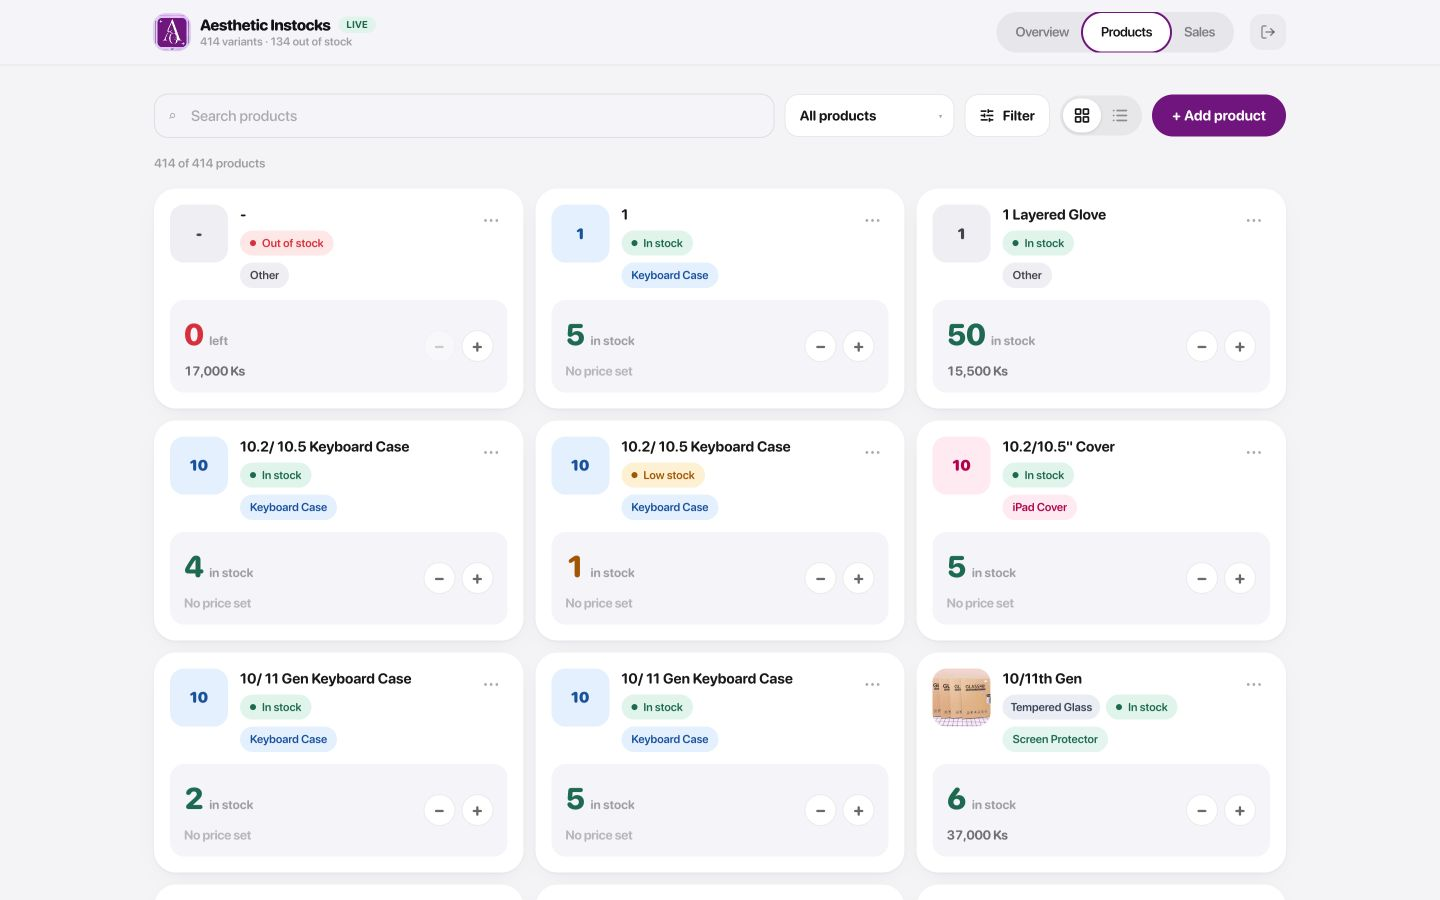
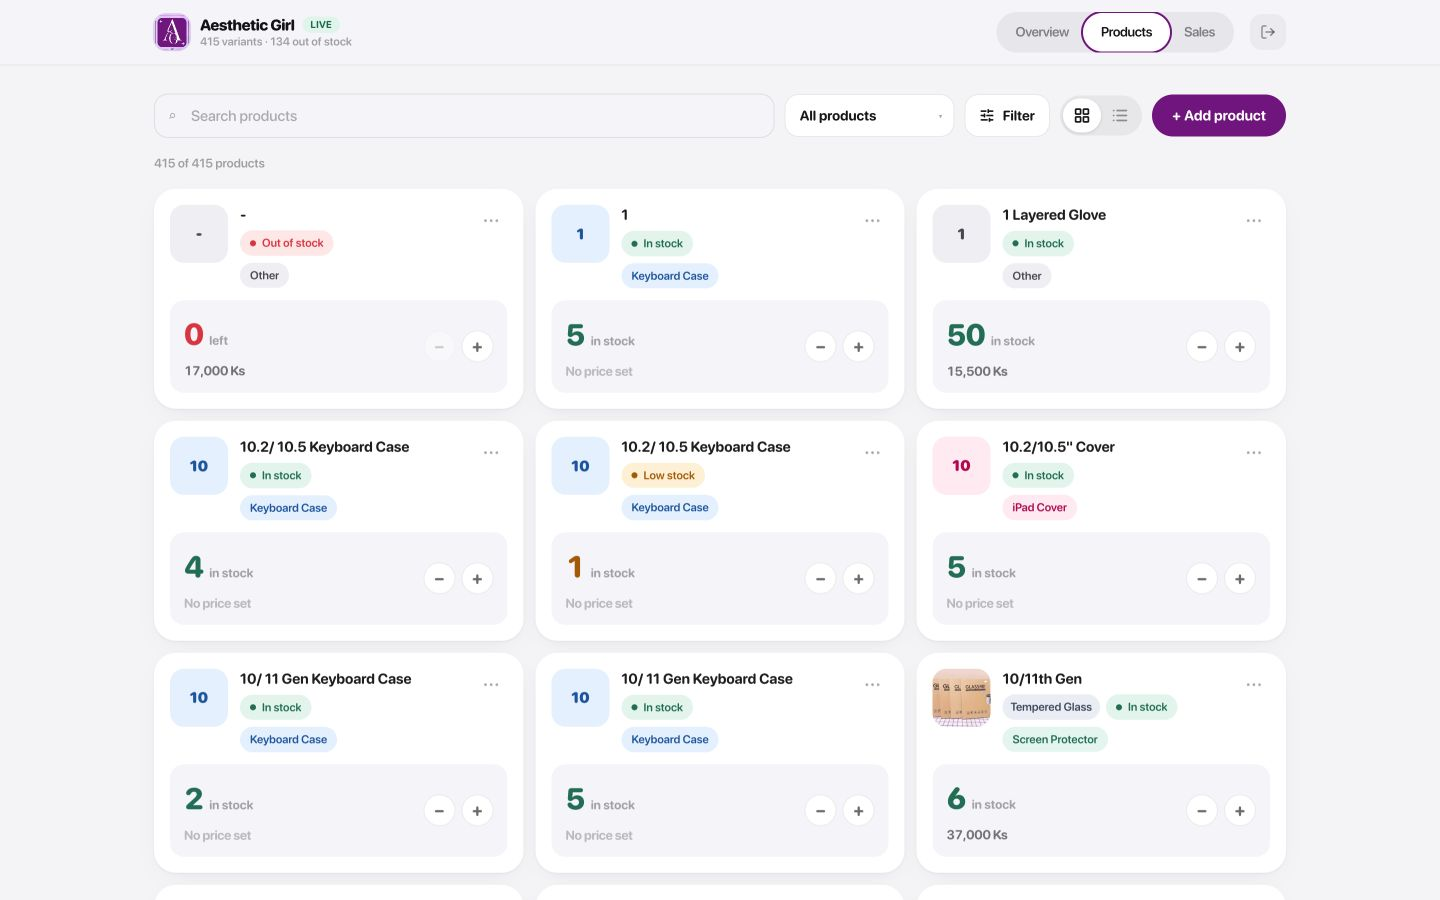
Simplify login and add password visibility

diff --git a/src/components/AuthGate.tsx b/src/components/AuthGate.tsx
@@ -1,6 +1,6 @@
 import * as React from 'react'
 import type { Session } from '@supabase/supabase-js'
-import { LoaderCircle, LockKeyhole, Sparkles } from 'lucide-react'
+import { Eye, EyeOff, LoaderCircle, Sparkles } from 'lucide-react'
 import { Button } from '@/components/ui/button'
 import { Input } from '@/components/ui/input'
 import { supabase, supabaseConfigured } from '@/lib/supabase'
@@ -13,6 +13,7 @@ export default function AuthGate({ children }: { children: React.ReactNode }) {
   const [mode, setMode] = React.useState<Mode>('signin')
   const [email, setEmail] = React.useState('')
   const [password, setPassword] = React.useState('')
+  const [showPassword, setShowPassword] = React.useState(false)
   const [busy, setBusy] = React.useState(false)
   const [message, setMessage] = React.useState<string | null>(null)
   const [error, setError] = React.useState<string | null>(null)
@@ -88,19 +89,9 @@ export default function AuthGate({ children }: { children: React.ReactNode }) {
             className="h-11 w-11 shrink-0 rounded-[15px] object-cover shadow-sm ring-1 ring-[#89288F]/15"
           />
           <div>
-            <h1 className="text-[20px] font-extrabold tracking-tight">Aesthetic Instocks</h1>
+            <h1 className="text-[20px] font-extrabold tracking-tight">Aesthetic Girl</h1>
             <p className="text-[12px] font-semibold text-black/40">Private inventory workspace</p>
           </div>
-        </div>
-
-        <div className="mb-6 rounded-[18px] bg-[#F7EFF8] p-4">
-          <div className="flex items-center gap-2 text-[13px] font-bold text-[#76227B]">
-            <LockKeyhole className="h-4 w-4" />
-            Your shop data is protected
-          </div>
-          <p className="mt-1.5 text-[12px] leading-relaxed text-black/50">
-            Sign in to sync inventory, orders, sales and expenses across devices.
-          </p>
         </div>
 
         <form className="space-y-4" onSubmit={submit}>
@@ -118,16 +109,28 @@ export default function AuthGate({ children }: { children: React.ReactNode }) {
           </label>
           <label className="block">
             <span className="mb-1.5 block text-[12px] font-bold text-black/55">Password</span>
-            <Input
-              autoComplete={mode === 'signin' ? 'current-password' : 'new-password'}
-              className="h-11 rounded-[13px] bg-white px-3.5"
-              minLength={8}
-              onChange={(event) => setPassword(event.target.value)}
-              placeholder="At least 8 characters"
-              required
-              type="password"
-              value={password}
-            />
+            <div className="relative">
+              <Input
+                autoComplete={mode === 'signin' ? 'current-password' : 'new-password'}
+                className="h-11 rounded-[13px] bg-white pl-3.5 pr-11"
+                minLength={8}
+                onChange={(event) => setPassword(event.target.value)}
+                placeholder="At least 8 characters"
+                required
+                type={showPassword ? 'text' : 'password'}
+                value={password}
+              />
+              <button
+                type="button"
+                aria-label={showPassword ? 'Hide password' : 'Show password'}
+                aria-pressed={showPassword}
+                className="absolute inset-y-0 right-0 grid w-11 place-items-center rounded-r-[13px] text-black/40 transition-colors hover:text-[#89288F] focus-visible:outline-none focus-visible:ring-2 focus-visible:ring-inset focus-visible:ring-[#89288F]"
+                onClick={() => setShowPassword((visible) => !visible)}
+                title={showPassword ? 'Hide password' : 'Show password'}
+              >
+                {showPassword ? <EyeOff className="h-[18px] w-[18px]" /> : <Eye className="h-[18px] w-[18px]" />}
+              </button>
+            </div>
           </label>
 
           {error && <p className="rounded-xl bg-red-50 px-3 py-2 text-[12px] font-semibold text-red-600">{error}</p>}

diff --git a/src/lib/api.ts b/src/lib/api.ts
@@ -34,12 +34,12 @@ async function currentAccess() {
     .single()
   if (error) {
     if ('code' in error && error.code === 'PGRST116') {
-      throw new Error('This account has not been assigned to the Aesthetic Instocks workspace')
+      throw new Error('This account has not been assigned to the Aesthetic Girl workspace')
     }
     fail(error)
   }
 
-  if (!data) throw new Error('This account has not been assigned to the Aesthetic Instocks workspace')
+  if (!data) throw new Error('This account has not been assigned to the Aesthetic Girl workspace')
   const role = data.role
   if (role !== 'super_admin' && role !== 'staff' && role !== 'guest') {
     throw new Error('This account has an invalid workspace role')

diff --git a/src/App.tsx b/src/App.tsx
@@ -213,7 +213,7 @@ export default function App() {
             />
             <div className="min-w-0 leading-tight">
               <div className="flex items-center gap-2">
-                <span className="truncate text-[15.5px] font-extrabold tracking-tight">Aesthetic Instocks</span>
+                <span className="truncate text-[15.5px] font-extrabold tracking-tight">Aesthetic Girl</span>
                 <span
                   className="rounded-full px-2 py-[2px] text-[10px] font-bold uppercase tracking-wide"
                   style={{

diff --git a/index.html b/index.html
@@ -4,7 +4,7 @@
     <meta charset="UTF-8" />
     <link rel="icon" type="image/jpeg" href="/aesthetic-girl-mark.jpg" />
     <meta name="viewport" content="width=device-width, initial-scale=1.0" />
-    <title>Aesthetic Instocks</title>
+    <title>Aesthetic Girl</title>
   </head>
   <body>
     <div id="root"></div>

diff --git a/README.md b/README.md
@@ -1,4 +1,4 @@
-# Aesthetic Instocks
+# Aesthetic Girl
 
 <p align="center">
   <img src="public/aesthetic-girl-logo.jpg" alt="Aesthetic Girl logo" width="240" />
@@ -31,11 +31,11 @@ Inventory, sales, and expense management for Aesthetic Girl. The application is 
 
 ### Desktop
 
-![Aesthetic Instocks product inventory on desktop](docs/screenshots/products-desktop.png)
+![Aesthetic Girl product inventory on desktop](docs/screenshots/products-desktop.png)
 
 ### Mobile
 
-<img src="docs/screenshots/products-mobile.png" alt="Aesthetic Instocks product inventory on mobile" width="390" />
+<img src="docs/screenshots/products-mobile.png" alt="Aesthetic Girl product inventory on mobile" width="390" />
 
 ## Technology
 
